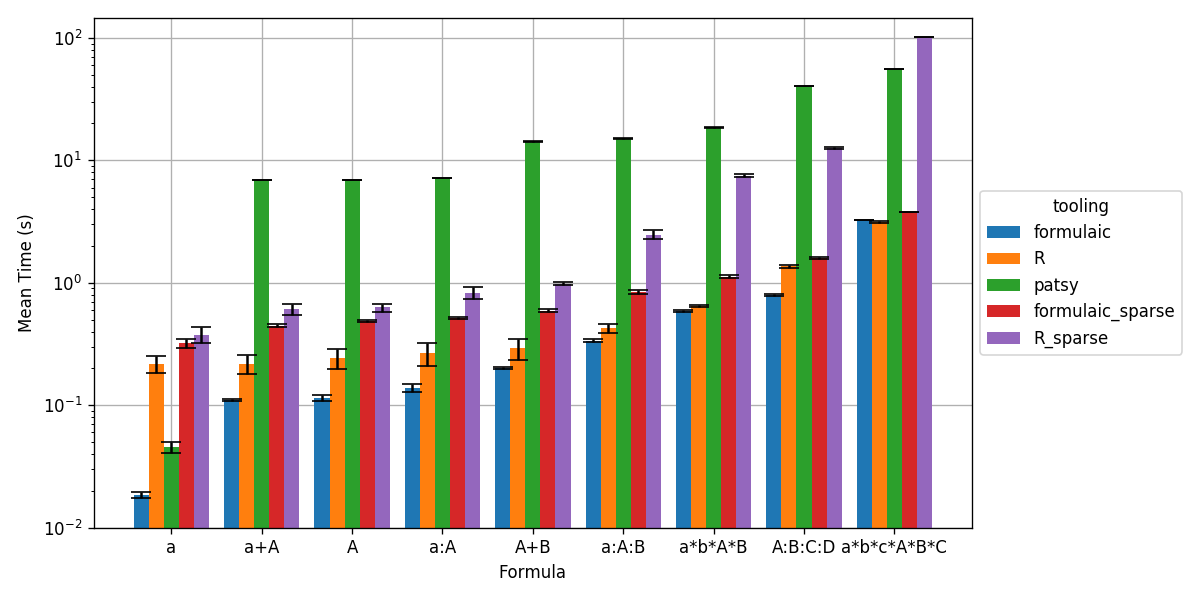
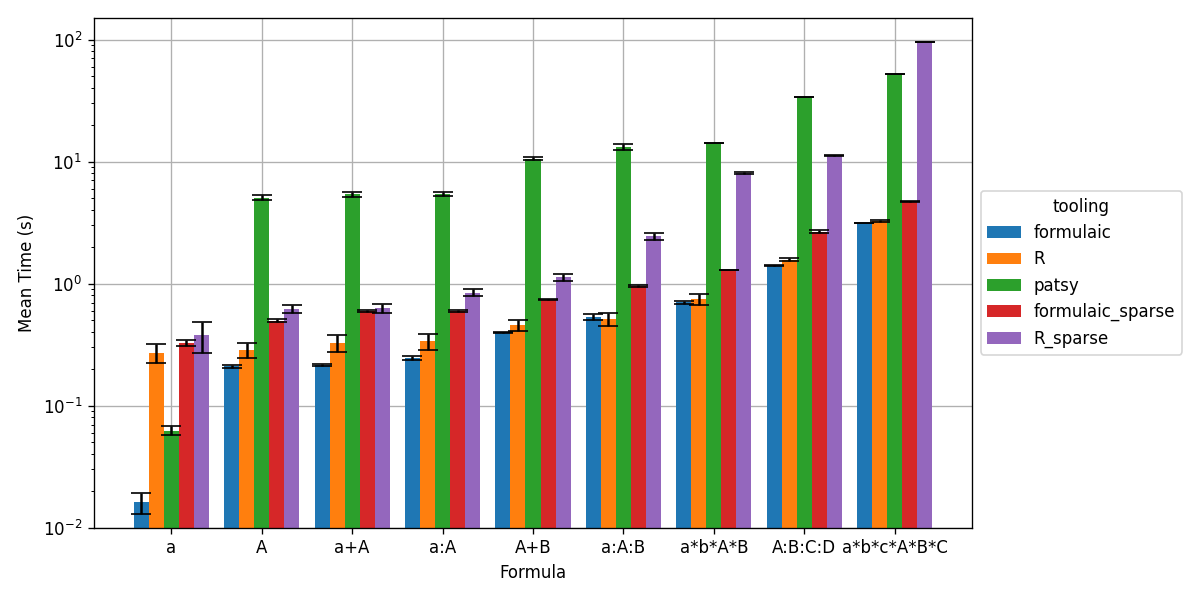
Update benchmarks.

diff --git a/benchmarks/benchmark.py b/benchmarks/benchmark.py
@@ -79,7 +79,7 @@ def time_formulaic(formula):
 
 @timed_func
 def time_formulaic_sparse(formula):
-    return Formula(formula).get_model_matrix(df, sparse=True)
+    return Formula(formula).get_model_matrix(df, output='sparse')
 
 
 toolings = {

diff --git a/benchmarks/README.md b/benchmarks/README.md
@@ -26,73 +26,73 @@ python <formulaic_repo>/benchmarks/plot.py
 
 ## Results
 
-On a ThinkPad T480s with a Intel® Core™ i7-8650U CPU @ 1.90GHz and 24 GB of DDR4
+On a ThinkPad T14s Gen 1 with an Intel(R) Core(TM) i7-10610U CPU @ 1.80GHz and 32 GB of DDR4
 RAM, this benchmark yields the following results:
 
 ![Benchmarking Results](benchmarks.png)
 
 ```
 version information
-    python: 3.7.5 (default, Oct 25 2019, 15:51:11)
-        formulaic: 0.1.2
-        patsy: 0.5.1
-        pandas: 0.25.2
-    R: R version 3.6.1 (2019-07-05) -- "Action of the Toes"
+    python: 3.9.10 | packaged by conda-forge | (main, Feb  1 2022, 21:24:11)
+        formulaic: 0.3.0
+        patsy: 0.5.2
+        pandas: 1.4.1
+    R: R version 4.0.5 (2021-03-31) -- "Shake and Throw"
         model.matrix: (inbuilt into R)
-        Matrix (sparse.model.matrix): 1.2.17
+        Matrix (sparse.model.matrix): 1.4.0
 
 a
-    patsy: 0.0452±0.0045 (mean of 7)
-    formulaic: 0.0184±0.0011 (mean of 7)
-    formulaic_sparse: 0.322±0.027 (mean of 7)
-    R: 0.219±0.039 (mean of 7)
-    R_sparse: 0.377±0.055 (mean of 7)
+    patsy: 0.0624±0.0054 (mean of 7)
+    formulaic: 0.0161±0.0033 (mean of 7)
+    formulaic_sparse: 0.326±0.016 (mean of 7)
+    R: 0.287±0.041 (mean of 7)
+    R_sparse: 0.38±0.11 (mean of 7)
 A
-    patsy: 6.941±0.028 (mean of 3)
-    formulaic: 0.1153±0.0066 (mean of 7)
-    formulaic_sparse: 0.445±0.013 (mean of 7)
-    R: 0.218±0.034 (mean of 7)
-    R_sparse: 0.629±0.046 (mean of 7)
+    patsy: 5.08±0.22 (mean of 5)
+    formulaic: 0.2096±0.0065 (mean of 7)
+    formulaic_sparse: 0.497±0.014 (mean of 7)
+    R: 0.271±0.048 (mean of 7)
+    R_sparse: 0.620±0.047 (mean of 7)
 a+A
-    patsy: 6.943±0.023 (mean of 3)
-    formulaic: 0.1102±0.0029 (mean of 7)
-    formulaic_sparse: 0.487±0.012 (mean of 7)
-    R: 0.291±0.055 (mean of 7)
-    R_sparse: 0.833±0.098 (mean of 7)
+    patsy: 5.37±0.25 (mean of 4)
+    formulaic: 0.2144±0.0050 (mean of 7)
+    formulaic_sparse: 0.592±0.011 (mean of 7)
+    R: 0.339±0.051 (mean of 7)
+    R_sparse: 0.843±0.054 (mean of 7)
 a:A
-    patsy: 7.156±0.035 (mean of 3)
-    formulaic: 0.138±0.010 (mean of 7)
-    formulaic_sparse: 0.5165±0.0081 (mean of 7)
-    R: 0.267±0.058 (mean of 7)
-    R_sparse: 0.611±0.062 (mean of 7)
+    patsy: 5.42±0.20 (mean of 4)
+    formulaic: 0.2448±0.0098 (mean of 7)
+    formulaic_sparse: 0.595±0.016 (mean of 7)
+    R: 0.325±0.053 (mean of 7)
+    R_sparse: 0.629±0.052 (mean of 7)
 A+B
-    patsy: 14.36±0.13 (mean of 2)
-    formulaic: 0.2013±0.0034 (mean of 7)
-    formulaic_sparse: 0.592±0.019 (mean of 7)
-    R: 0.244±0.044 (mean of 7)
-    R_sparse: 0.986±0.035 (mean of 7)
+    patsy: 10.59±0.36 (mean of 2)
+    formulaic: 0.3979±0.0042 (mean of 7)
+    formulaic_sparse: 0.7370±0.0056 (mean of 7)
+    R: 0.458±0.046 (mean of 7)
+    R_sparse: 1.129±0.073 (mean of 7)
 a:A:B
-    patsy: 15.091±0.016 (mean of 2)
-    formulaic: 0.3369±0.0095 (mean of 7)
-    formulaic_sparse: 0.837±0.030 (mean of 7)
-    R: 0.424±0.033 (mean of 7)
-    R_sparse: 2.48±0.21 (mean of 7)
+    patsy: 13.14±0.74 (mean of 2)
+    formulaic: 0.530±0.029 (mean of 7)
+    formulaic_sparse: 0.950±0.017 (mean of 7)
+    R: 0.512±0.059 (mean of 7)
+    R_sparse: 2.44±0.16 (mean of 7)
 A:B:C:D
-    patsy: 40.41527056694031±0 (mean of 1)
-    formulaic: 0.794±0.016 (mean of 7)
-    formulaic_sparse: 1.592±0.018 (mean of 7)
-    R: 1.361±0.045 (mean of 7)
-    R_sparse: 12.58±0.27 (mean of 2)
+    patsy: 33.971909284591675±0 (mean of 1)
+    formulaic: 1.400±0.013 (mean of 7)
+    formulaic_sparse: 2.664±0.059 (mean of 7)
+    R: 1.574±0.043 (mean of 7)
+    R_sparse: 11.207±0.072 (mean of 2)
 a*b*A*B
-    patsy: 18.71±0.16 (mean of 2)
-    formulaic: 0.589±0.015 (mean of 7)
-    formulaic_sparse: 1.125±0.025 (mean of 7)
-    R: 0.649±0.013 (mean of 7)
-    R_sparse: 7.50±0.18 (mean of 3)
+    patsy: 14.136±0.024 (mean of 2)
+    formulaic: 0.702±0.016 (mean of 7)
+    formulaic_sparse: 1.2937±0.0088 (mean of 7)
+    R: 0.744±0.078 (mean of 7)
+    R_sparse: 8.047±0.099 (mean of 3)
 a*b*c*A*B*C
-    patsy: 55.63201975822449±0 (mean of 1)
-    formulaic: 3.249±0.016 (mean of 7)
-    formulaic_sparse: 3.791±0.018 (mean of 6)
-    R: 3.143±0.042 (mean of 7)
-    R_sparse: (1.0259734272956849±0)×10² (mean of 1)
+    patsy: 52.30743145942688±0 (mean of 1)
+    formulaic: 3.124±0.016 (mean of 7)
+    formulaic_sparse: 4.723±0.058 (mean of 5)
+    R: 3.261±0.034 (mean of 7)
+    R_sparse: 96.12985253334045±0 (mean of 1)
 ```
